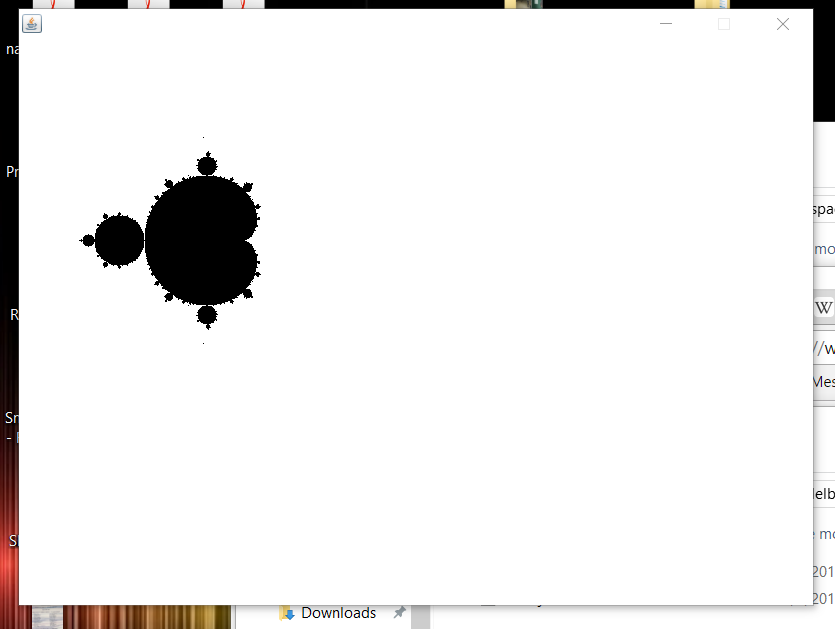
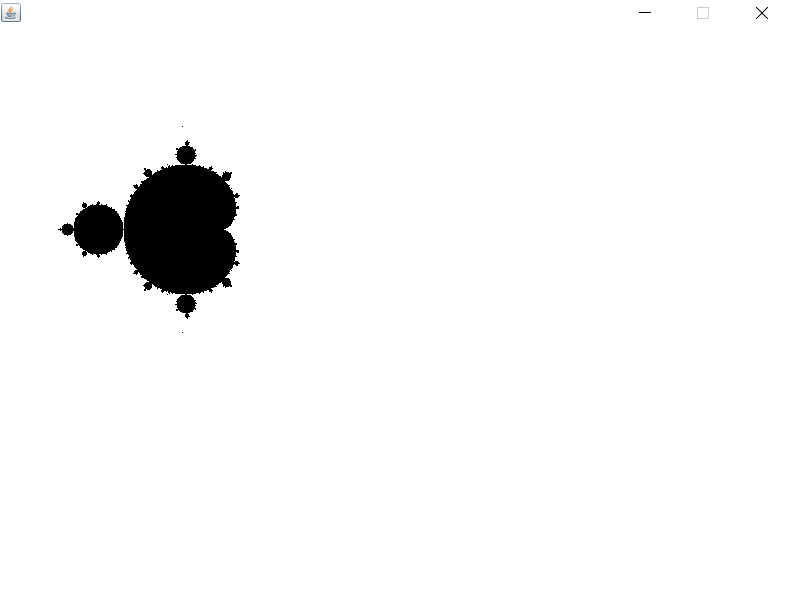
Update README.md with images

Changed region(s): [[0.0, 0.0, 1.0, 1.0], [0.0608, 0.2445, 0.3342, 0.5501]]

diff --git a/README.md b/README.md
@@ -3,14 +3,19 @@ High school projects that I found on my old hard drive
 ## APCSP (Awesome Polygons Create Serious Pwnage)
 Bullet hell game made in Java for my AP Computer Science A portfolio.  
 Difficulty increases the longer you survive. Also, run speed decreases because I stored all the bullets and shapes in arraylists and iterated over them to detect collisions, which is the most stupid and inefficient thing ever in hindsight.  
-Arrow keys or WASD to move, Space or Z to shoot, Shift or X to slow, CTRL or C to bomb.
+Arrow keys or WASD to move, Space or Z to shoot, Shift or X to slow, CTRL or C to bomb.  
+![alt text](apcsp.PNG)
 ## Platformer Game
 Platformer game I made with [Alvin](https://github.com/realalvinnerds) for our AP Computer Science A final project.  
 Difficulty increases the longer you survive, and game gets slower just like APCSP game. Also there's actually a plot now! But good luck surviving long enough to read it! :D  
 Arrow keys to move and jump, space to shoot. Collect coins to unleash power ups.
+![alt text](aaaa1.PNG)
 ## Cellular Automata
 Program simulating [elementary cellular automata](https://en.wikipedia.org/wiki/Elementary_cellular_automaton) I made for fun after learning about them in AP Calc BC.  
 Type in "rule [number]" and the program will create and display the model generated using that rule.  
 The model gets really glitchy at the edges since it can't check the cell to its upper left or upper right.
+![alt text](rule30.PNG)
+![alt text](rule90.PNG)
 ## Mandelbrot
 Program simulating the [mandelbrot set](https://en.wikipedia.org/wiki/Mandelbrot_set) I made for fun after learning about it in AP Calc BC.  After executing, the program will run through the grid and calculate the mandelbrot function f(z) = z^2 + c on that set of coordinates, and display the divergent/convergent pixels with either black or white.
+![alt text](mandelbrot2.PNG)
